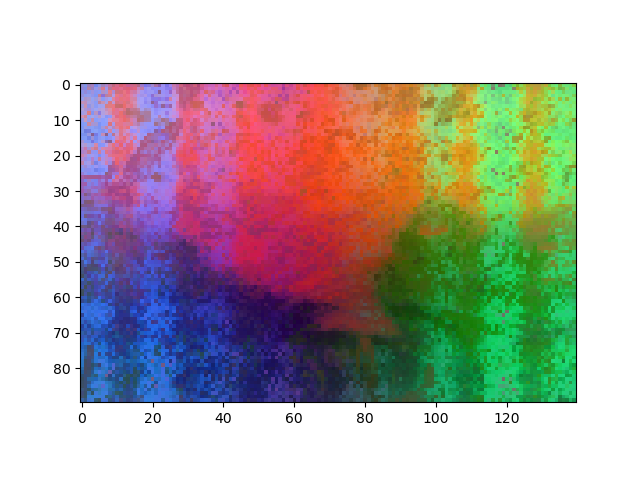
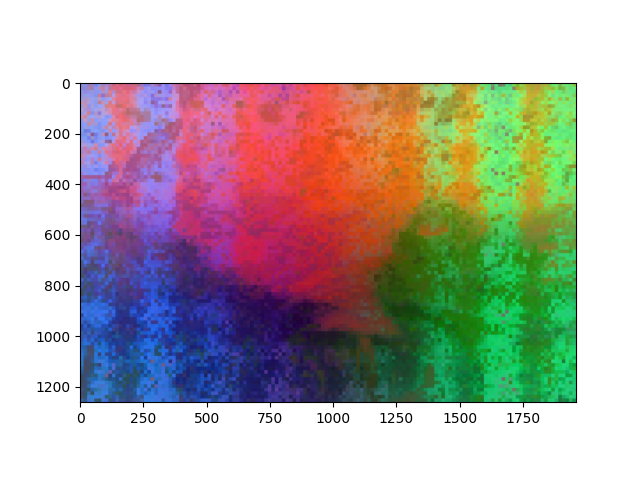
ok_feat_ext

diff --git a/BaseWVN/utils/feat_extractor.py b/BaseWVN/utils/feat_extractor.py
@@ -20,9 +20,7 @@ class FeatureExtractor:
         self._segmentation_type = segmentation_type
         self._feature_type = feature_type
         self._input_size = input_size
-        # input size must be a multiple of 14
-        self.patch_size = 14
-        assert self._input_size % self.patch_size == 0, "Input size must be a multiple of patch_size"
+        
         # Extract original_width and original_height from kwargs if present
         self.original_width = kwargs.get('original_width', 1920)  # Default to 1920 if not provided
         self.original_height = kwargs.get('original_height', 1280)  # Default to 1080 if not provided
@@ -37,14 +35,18 @@ class FeatureExtractor:
         elif self._input_interp == "bicubic":
             self.interp = T.InterpolationMode.BICUBIC
 
-        self.transform=self._create_transform()
-
         # feature extractor
         if self._feature_type == "dinov2":
+            self.patch_size = 14
             self.extractor=Dinov2Interface(device, **kwargs)
         else:
             raise ValueError(f"Extractor[{self._feature_type}] not supported!")
         
+        assert self._input_size % self.patch_size == 0, "Input size must be a multiple of patch_size"
+        
+        # create transform
+        self.transform=self._create_transform()
+
         # segmentation
         if self._segmentation_type == "pixel":
             pass
@@ -82,6 +84,14 @@ class FeatureExtractor:
     @property
     def segmentation_type(self):
         return self._segmentation_type
+    
+    @property
+    def resize_ratio(self):
+        return self.resize_ratio_x, self.resize_ratio_y
+    
+    @property
+    def new_size(self):
+        return self.new_width, self.new_height
 
     def _create_transform(self):
         # Calculate aspect ratio preserving size
@@ -105,8 +115,15 @@ class FeatureExtractor:
             T.CenterCrop(self._input_size) if self.center_crop else T.CenterCrop((new_height, new_width)),
             T.ConvertImageDtype(torch.float),
         ])
-        self.new_height=new_height
-        self.new_width=new_width
+        if not self.center_crop:
+            self.new_height=new_height
+            self.new_width=new_width    
+        else:
+            self.new_height=self._input_size
+            self.new_width=self._input_size
+        # actual resize ratio along x and y
+        self.resize_ratio_x=self.new_width/self.original_width
+        self.resize_ratio_y=self.new_height/self.original_height
         return transform
 
     def change_device(self, device):
@@ -134,7 +151,8 @@ class FeatureExtractor:
     def segment_slic(self, img: torch.tensor, **kwargs):
         # transform image to numpy
         B, C, H, W = img.shape
-        img_np = img.cpu().numpy()
+        img=img.permute(0,2,3,1)
+        img_np = img[0].cpu().numpy()
         seg = self.slic.iterate(np.uint8(np.ascontiguousarray(img_np) * 255))
         return torch.from_numpy(seg).to(self._device).type(torch.long)
     
@@ -148,8 +166,12 @@ class FeatureExtractor:
     
     def sparsify_features(self, dense_features: Union[torch.Tensor, Dict[str, torch.Tensor]], seg: torch.tensor, cumsum_trick=False):
         """ Sparsify features
+        Input:
+            dense_features (B,C,H,W): dense features tensor or dict of dense features tensors
+            seg (H,W): segmentation map
          
-        return (H*W/segs_num,C)
+        Return:
+            sparse_features (B,H*W/segs_num,C)
           
             """
         if isinstance(dense_features, dict):
@@ -193,16 +215,17 @@ class FeatureExtractor:
                 dense_features=dense_features.permute(0,2,3,1)
                 sparse_features = dense_features.reshape(dense_features.shape[0],dense_features.shape[1]*dense_features.shape[2],-1)
                 return sparse_features
-        # Concatenate features
         
+        # Concatenate features
         sparse_features = torch.stack(sparse_features, dim=1)
         return sparse_features
 
 def test_extractor():
     import cv2
     import os
+    import time
     image_relative_path = 'image/hiking.png'  # Update to the relative path of your image
-    feat_relative_path = 'image/hiking_feat_low.png'
+    feat_relative_path = 'image/hiking_feat.png'
     # Use os.path.join to get the full path of the image
     image_path = os.path.join(WVN_ROOT_DIR, image_relative_path)
     device = 'cuda' if torch.cuda.is_available() else 'cpu'
@@ -211,9 +234,19 @@ def test_extractor():
     img = img.permute(2, 0, 1)
     img = (img.type(torch.float32) / 255)[None]
     input_size=1260
-    extractor=FeatureExtractor(device, input_size=input_size, original_width=img.shape[-1], original_height=img.shape[-2], interp='bilinear')
-    features, seg=extractor.extract(img)
+    extractor=FeatureExtractor(device, segmentation_type="pixel",input_size=input_size, original_width=img.shape[-1], original_height=img.shape[-2], interp='bilinear')
+    start_time = time.time()
     
+    features, seg=extractor.extract(img)
+
+     # Stop the timer
+    end_time = time.time()
+    # Calculate the elapsed time
+    inference_time = end_time - start_time
+
+    # Print the resulting feature tensor and inference time
+    print("Feature shape:", features.shape)
+    print("Extract time: {:.3f} seconds".format(inference_time))
     
     import matplotlib.pyplot as plt
     import numpy as np

diff --git a/BaseWVN/utils/dinov2_interface.py b/BaseWVN/utils/dinov2_interface.py
@@ -86,9 +86,9 @@ if __name__=="__main__":
     img = img.permute(2, 0, 1)
     img = (img.type(torch.float32) / 255)[None]
     
-    input_image = Image.open(image_path).convert('RGB')  # Convert to RGB if not already
-    input_tensor = T.ToTensor()(input_image)
-    img=input_tensor.unsqueeze(0)
+    # input_image = Image.open(image_path).convert('RGB')  # Convert to RGB if not already
+    # input_tensor = T.ToTensor()(input_image)
+    # img=input_tensor.unsqueeze(0)
     input_size = 1260
     # If you have a GPU with CUDA support, use 'cuda', otherwise 'cpu'
     device = 'cuda' if torch.cuda.is_available() else 'cpu'

diff --git a/BaseWVN/utils/__init__.py b/BaseWVN/utils/__init__.py
@@ -1,4 +1,4 @@
 from .NodeForROS import NodeForROS
-from .image_projector import ImageProjector, run_image_projector
+# from .image_projector import ImageProjector, run_image_projector
 from .meshes import make_superquadric,make_plane,make_ellipsoid,make_polygon_from_points
 from .dinov2_interface import Dinov2Interface
